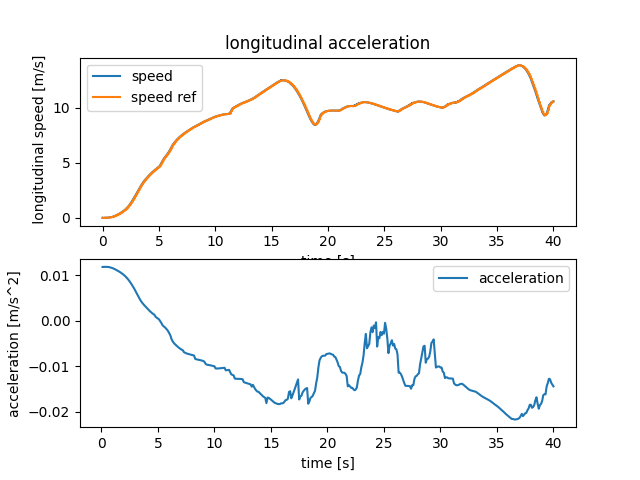
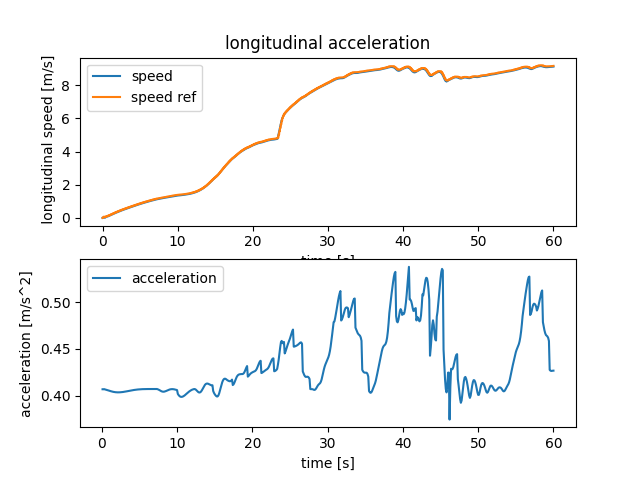
solved the throttle problem by changing the weight in MPC

diff --git a/main.py b/main.py
@@ -100,7 +100,7 @@ else:
                                         [1 / 25, 0.0, -1 / 25, 0.0, 1 / 25, 0.0, 1 / 25, 0.0, 1/25],
                                         [0.0, np.pi, np.pi, np.pi / 2.0, np.pi / 2.0, 3.0 * np.pi / 2.0, 3.0 * np.pi / 2.0, 0.0, 0.0]]).T
 
-    track = Track(centerline_descriptor=centerline_descriptor, track_width=10.0, reference_speed=5.0)
+    track = Track(centerline_descriptor=centerline_descriptor, track_width=10.0, reference_speed=15.0)
     waypoints = track.get_reference_trajectory()
     print('waypoints\n',waypoints.shape)
 
@@ -155,9 +155,12 @@ env.make(config=MPCConfigEXT(), friction=friction, patch_coords=patch_coords, wa
 # steeringPID.Reset(my_hmmwv.GetVehicle())
 
 speedPID = veh.ChSpeedController()
-Kp = 0.6
-Ki = 0.2
-Kd = 0.3
+# Kp = 0.6
+# Ki = 0.2
+# Kd = 0.3
+Kp = 0.4*10
+Ki = 0
+Kd = 0
 speedPID.SetGains(Kp, Ki, Kd)
 speedPID.Reset(env.my_hmmwv.GetVehicle())
 
@@ -216,7 +219,7 @@ t_controlperiod = [] # time list every control_period
 t_stepsize = [] # time list every step_size
 speed = []
 speed_ref = []
-speedPID_output = 0
+speedPID_output = 1.0
 target_speed = 0
 target_acc = 0
 
@@ -249,6 +252,15 @@ while lap_counter < num_laps:
     # Driver inputs
     time = env.my_hmmwv.GetSystem().GetChTime()
     driver_inputs.m_steering = np.clip(steering_output, -1.0, +1.0)
+    speedPID_output = np.clip(speedPID_output, -1.0, +1.0)
+
+    if speedPID_output > 0:
+        driver_inputs.m_throttle = speedPID_output
+        driver_inputs.m_braking = 0.0
+    else:
+        driver_inputs.m_throttle = 0.0
+        driver_inputs.m_braking = -speedPID_output
+
 
     # Update modules (process inputs from other modules)
     env.terrain.Synchronize(time)
@@ -256,20 +268,23 @@ while lap_counter < num_laps:
     env.vis.Synchronize("", driver_inputs)
     
     vehicle_state = get_vehicle_state(env)
-    vehicle_state[2] = speedPID.GetCurrentSpeed() # vx from get_vehicle_state is a bit different from speedPID.GetCurrentSpeed()
+    # vehicle_state[2] = speedPID.GetCurrentSpeed() # vx from get_vehicle_state is a bit different from speedPID.GetCurrentSpeed()
     t_stepsize.append(time)
-    speed.append(speedPID.GetCurrentSpeed())
+    speed.append(vehicle_state[2])
     speed_ref.append(target_speed)
+    # print("speed", vehicle_state)
     
     # Solve MPC every control_step
     if (step_number % (control_step) == 0) : 
         # print("step number", step_number)
         u, mpc_ref_path_x, mpc_ref_path_y, mpc_pred_x, mpc_pred_y, mpc_ox, mpc_oy = planner_ekin_mpc.plan(
             vehicle_state)
+        print("u", u)
         u[0] = u[0] / env.vehicle_params.MASS  # Force to acceleration
         target_acc = u[0]
+        print("u", u)
         target_steering_speed = u[1]
-        target_speed = speedPID.GetCurrentSpeed() + target_acc*planner_ekin_mpc.config.DTK
+        target_speed = vehicle_state[2] + target_acc*planner_ekin_mpc.config.DTK
         steering_output = driver_inputs.m_steering + u[1]*planner_ekin_mpc.config.DTK/env.config.MAX_STEER # Overshoots soooo much
         # steering_output = u[1]*planner_ekin_mpc.config.DTK/env.config.MAX_STEER # This one works better lol. It doesn't make sesnse
         u_acc.append(u[0])
@@ -281,14 +296,17 @@ while lap_counter < num_laps:
         # print("mpc pred y", mpc_pred_y)
         # print("mpc ox", mpc_ox)
         # print("mpc oy", mpc_oy)
+        print("target_speed", target_speed)
         
-        # Update mpc_path_asset with mpc_pred
-        mpc_curve_points = [chrono.ChVectorD(mpc_ox[i], mpc_oy[i], 0.6) for i in range(env.config.TK + 1)]
-        mpc_curve = chrono.ChBezierCurve(mpc_curve_points, False) # True = closed curve
-        env.mpc_path_asset.SetLineGeometry(chrono.ChLineBezier(mpc_curve))
+        if mpc_ox is not None and not np.any(np.isnan(mpc_ox)):
+            # Update mpc_path_asset with mpc_pred
+            mpc_curve_points = [chrono.ChVectorD(mpc_ox[i], mpc_oy[i], 0.6) for i in range(env.config.TK + 1)]
+            mpc_curve = chrono.ChBezierCurve(mpc_curve_points, False) # True = closed curve
+            env.mpc_path_asset.SetLineGeometry(chrono.ChLineBezier(mpc_curve))
 
-    # Advance simulation for one timestep for all modules
-    speedPID_output = speedPID.Advance(env.my_hmmwv.GetVehicle(), target_speed, step_size)
+        # Advance simulation for one timestep for all modules
+        speedPID_output = speedPID.Advance(env.my_hmmwv.GetVehicle(), target_speed, step_size)
+        print('speed pid output', speedPID_output)
     env.step()
 
     # Check if the vehicle has crossed the starting point

diff --git a/models/configs.py b/models/configs.py
@@ -5,26 +5,26 @@ import numpy as np
 class MPCConfigEXT:
     NXK: int = 7  # length of kinematic state vector: z = [x, y, vx, yaw angle, vy, yaw rate, steering angle]
     NU: int = 2  # length of input vector: u = = [acceleration, steering speed]
-    TK: int = 60  # finite time horizon length kinematic
+    TK: int = 30  # finite time horizon length kinematic
 
     Rk: list = field(
-        default_factory=lambda: np.diag([0.001, 0.01])
+        default_factory=lambda: np.diag([0.00001, 2.0])
         # default_factory=lambda: np.diag([0.000001, 2.0])
     )  # input cost matrix, penalty for inputs - [accel, steering_speed]
     Rdk: list = field(
-        default_factory=lambda: np.diag([0.001, 0.01])
+        default_factory=lambda: np.diag([0.00001, 2.0])
         # default_factory=lambda: np.diag([0.000001, 2.0])
     )  # input difference cost matrix, penalty for change of inputs - [accel, steering_speed]
     Qk: list = field(
-        default_factory=lambda: np.diag([13.5, 13.5, 5.5, 13.0, 0.0, 0.0, 0.0])
+        default_factory=lambda: np.diag([13.5, 13.5, 5.5, 0.0, 0.0, 0.0, 0.0])
         # [13.5, 13.5, 5.5, 13.0, 0.0, 0.0, 0.0]
     )  # state error cost matrix, for the next (T) prediction time steps
     Qfk: list = field(
-        default_factory=lambda: np.diag([13.5, 13.5, 5.5, 13.0, 0.0, 0.0, 0.0])
+        default_factory=lambda: np.diag([13.5, 13.5, 5.5, 0.0, 0.0, 0.0, 0.0])
         # [13.5, 13.5, 5.5, 13.0, 0.0, 0.0, 0.0]
     )  # final state error matrix, penalty  for the final state constraints
     N_IND_SEARCH: int = 20  # Search index number
-    DTK: float = 0.05  # time step [s] kinematic
+    DTK: float = 0.1  # time step [s] kinematic
     dlk: float = 3.0  # dist step [m] kinematic
     LENGTH: float = 4.298  # Length of the vehicle [m]
     WIDTH: float = 1.674  # Width of the vehicle [m]

diff --git a/models/extended_kinematic.py b/models/extended_kinematic.py
@@ -10,6 +10,7 @@ class ExtendedKinematicModel:
 
     def __init__(self, config):
         self.config = config
+        print(self.config.MASS)
 
     def clip_input(self, u):
         # u matrix Nx2
